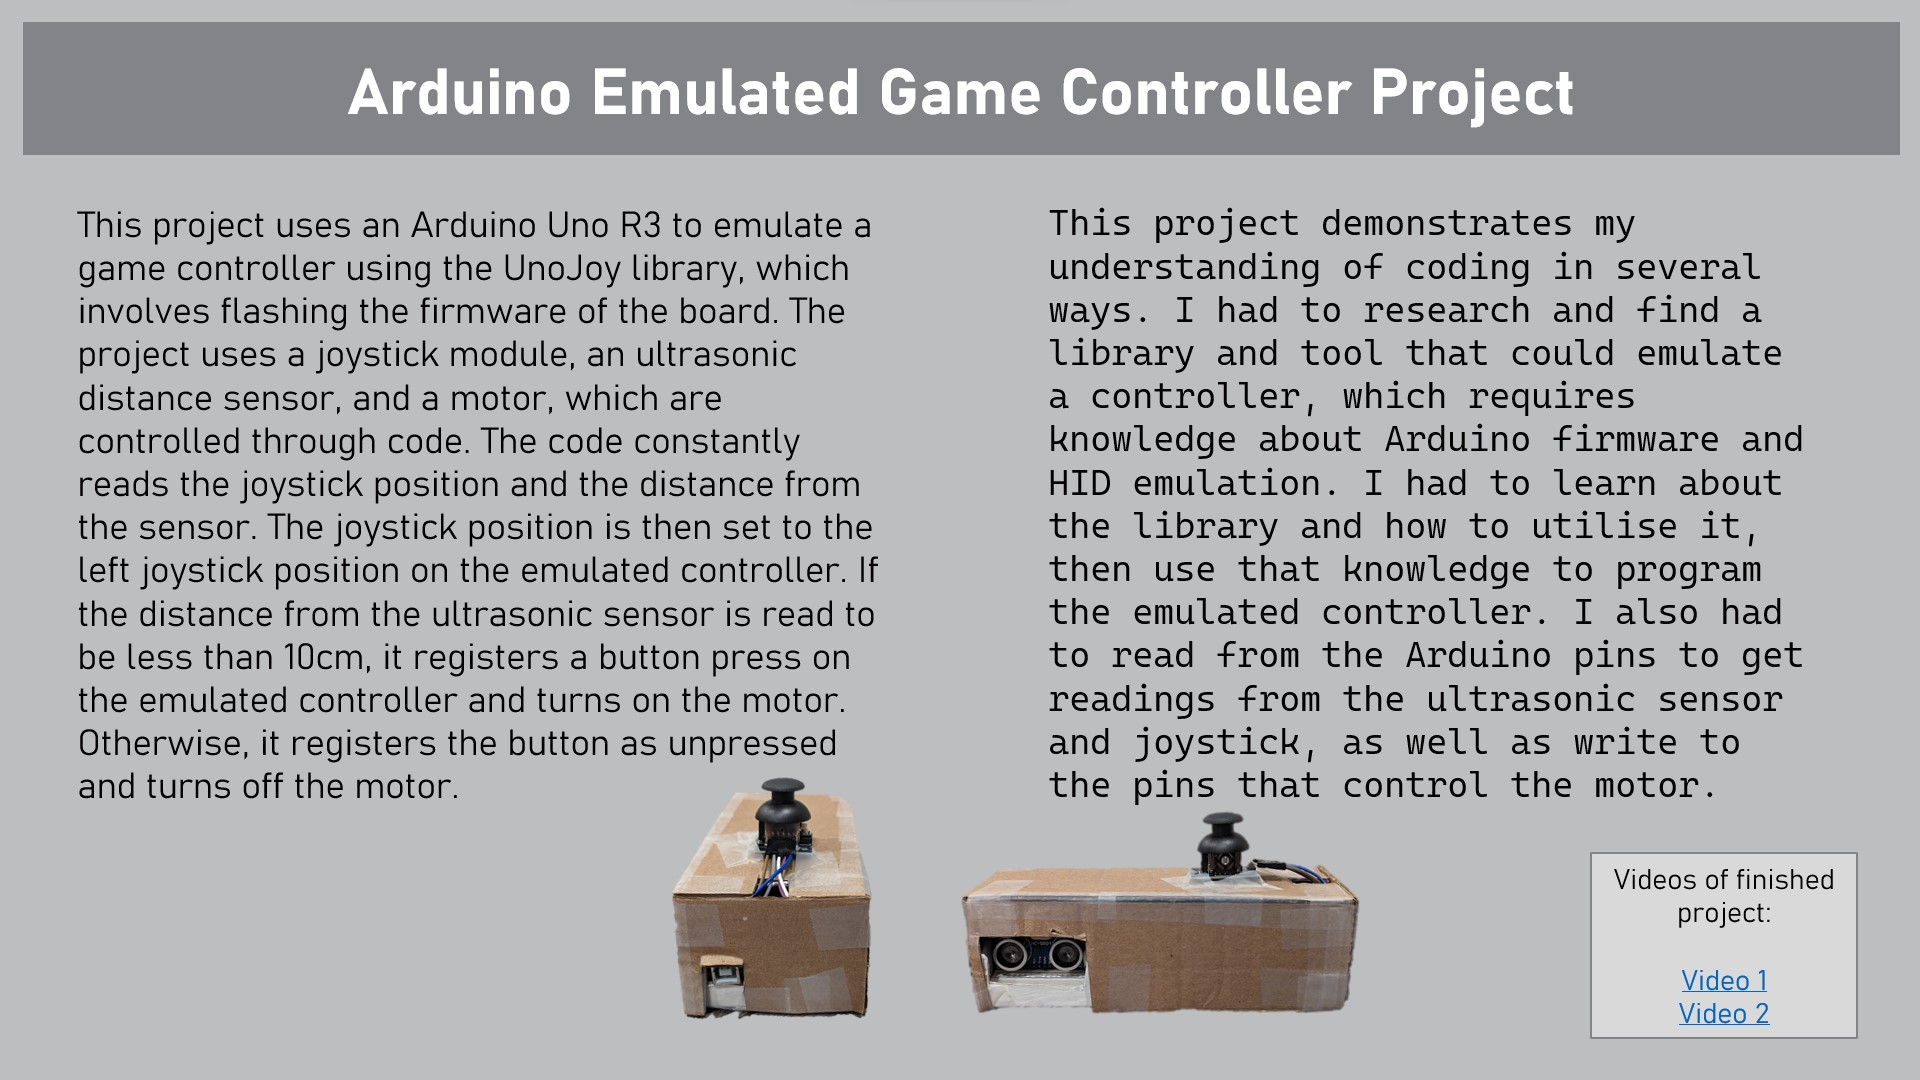
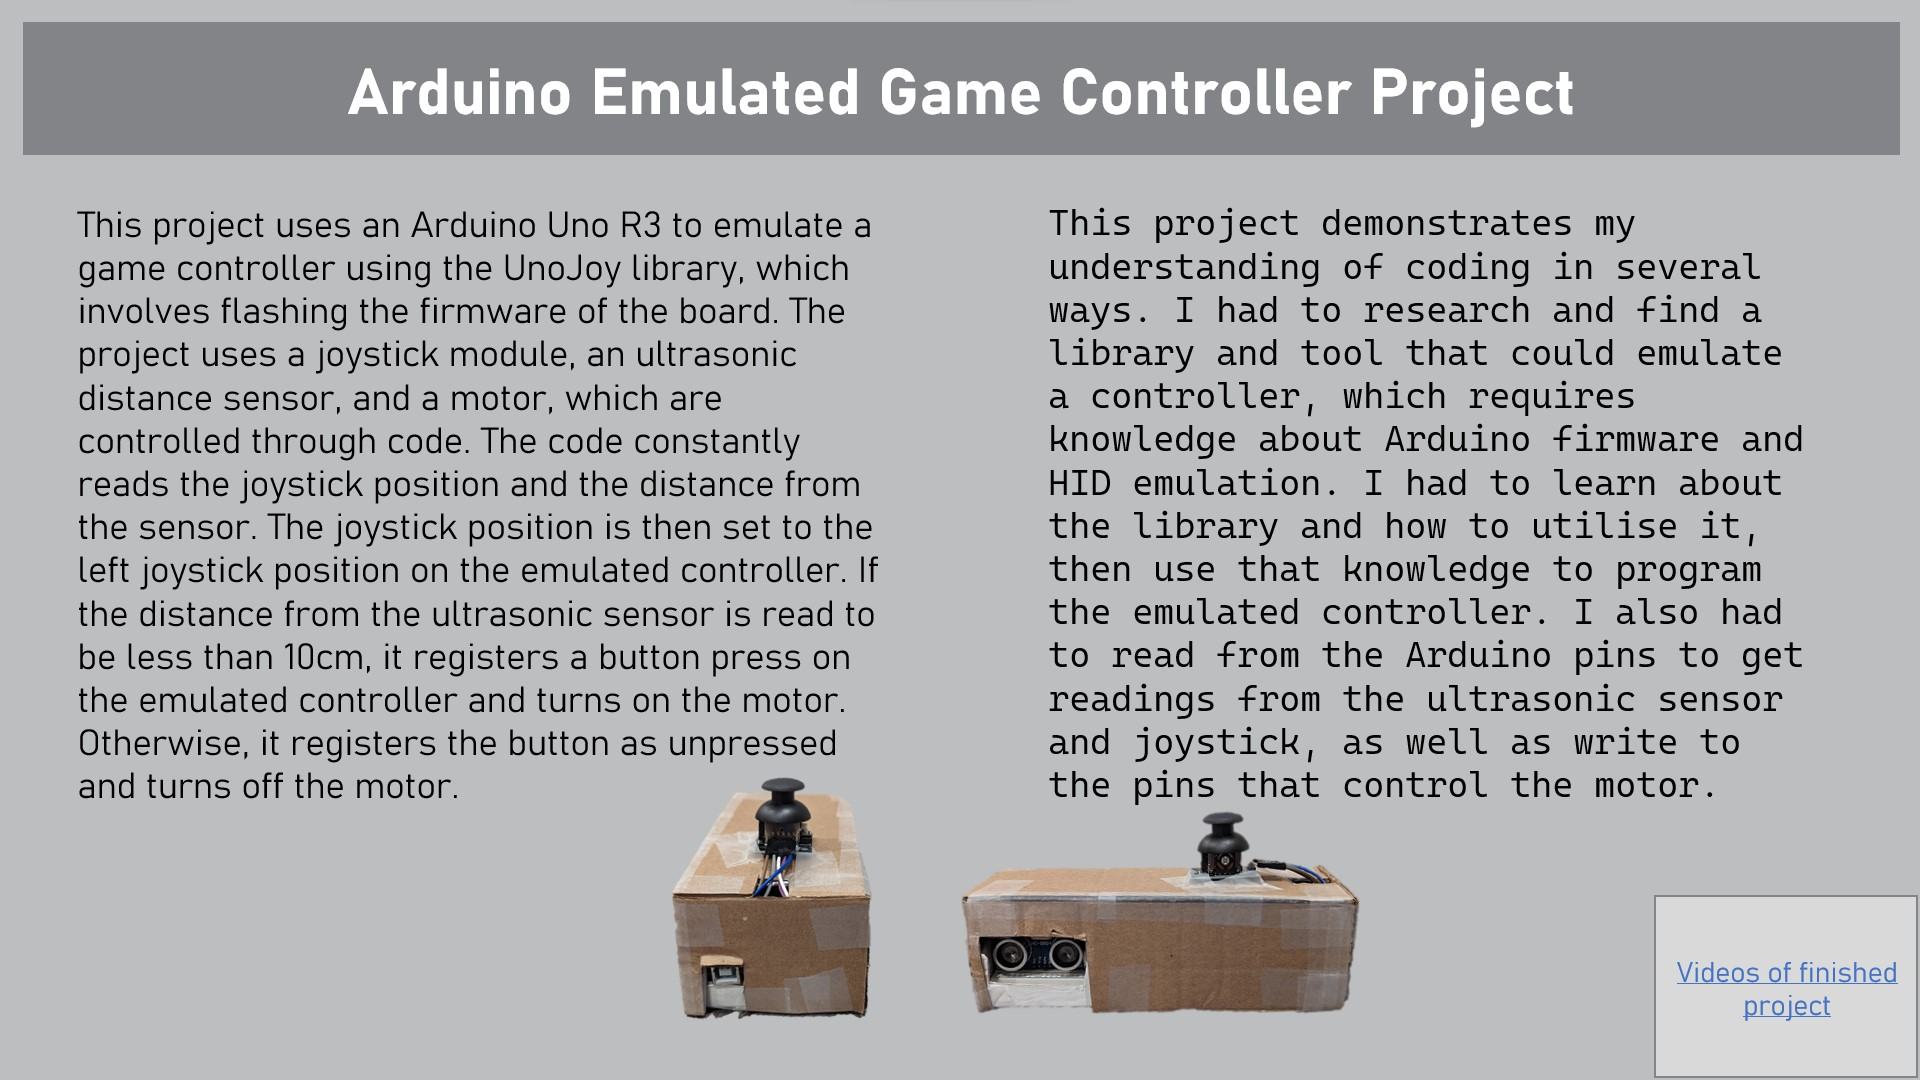
fixed the link not being clickable

Changed region(s): [[0.8125, 0.7639, 1.0, 1.0]]

diff --git a/script.js b/script.js
@@ -1,27 +1,31 @@
-document.addEventListener("DOMContentLoaded", function() {
-    const tabs = document.querySelectorAll(".tab");
-    const navLinks = document.querySelectorAll("nav a");
-  
-    function showTab(id) {
-      tabs.forEach(tab => {
-        if (tab.id === id) {
-          tab.style.display = "block";
-        } else {
-          tab.style.display = "none";
-        }
-      });
-    }
-  
-    function handleNavLinkClick(event) {
-      event.preventDefault();
-      const id = event.target.getAttribute("href").substr(1);
-      showTab(id);
-    }
-  
-    navLinks.forEach(link => {
-      link.addEventListener("click", handleNavLinkClick);
+document.addEventListener("DOMContentLoaded", function () {
+  const tabs = document.querySelectorAll(".tab");
+  const navLinks = document.querySelectorAll("nav a");
+
+  function showTab(id) {
+    tabs.forEach(tab => {
+      if (tab.id === id) {
+        tab.style.display = "block";
+      } else {
+        tab.style.display = "none";
+      }
     });
-  
-    showTab("tab1");
+  }
+
+  function handleNavLinkClick(event) {
+    event.preventDefault();
+    const id = event.target.getAttribute("href").substr(1);
+    showTab(id);
+  }
+
+  navLinks.forEach(link => {
+    link.addEventListener("click", handleNavLinkClick);
   });
-  
+
+  showTab("tab1");
+});
+
+const rect = document.querySelector(".rect");
+rect.addEventListener("click", function() {
+  window.location.href = "https://drive.google.com/drive/folders/1_yyIMneYBa8vWJuyU8DUaHSBdddfK4Jy?usp=sharing";
+});

diff --git a/styles.css b/styles.css
@@ -1,39 +1,62 @@
 body {
-    font-family: Arial, sans-serif;
-  }
-  
-  nav {
-    background-color: #f8f8f8;
-    border-bottom: 1px solid #ccc;
-  }
-  
-  nav ul {
-    list-style-type: none;
-    margin: 0;
-    padding: 0;
-    display: flex;
-  }
-  
-  nav li {
-    margin: 0 10px;
-  }
-  
-  nav a {
-    display: block;
-    padding: 10px;
-    text-decoration: none;
-    color: #333;
-  }
-  
-  nav a:hover {
-    background-color: #ddd;
-  }
-  
-  .tab {
-    display: none;
-  }
-  
-  .tab img {
-    max-width: 100%;
-  }
-  
+  font-family: Arial, sans-serif;
+}
+
+nav {
+  background-color: #f8f8f8;
+  border-bottom: 1px solid #ccc;
+}
+
+nav ul {
+  list-style-type: none;
+  margin: 0;
+  padding: 0;
+  display: flex;
+}
+
+nav li {
+  margin: 0 10px;
+}
+
+nav a {
+  display: block;
+  padding: 10px;
+  text-decoration: none;
+  color: #333;
+}
+
+nav a:hover {
+  background-color: #ddd;
+}
+
+.tab {
+  display: none;
+}
+
+.tab img {
+  max-width: 100%;
+  pointer-events: none;
+}
+
+.tab-img {
+  position: relative;
+  display: block;
+  max-width: 100%;
+}
+
+.tab-container {
+  position: relative;
+}
+
+.rect {
+  position: absolute;
+  bottom: 0;
+  right: 0;
+  width: 265px;
+  height: 185px;
+  z-index: 1;
+}
+
+.tab-img {
+  pointer-events: none;
+}

diff --git a/index.html b/index.html
@@ -53,26 +53,38 @@
       <img src="image1.jpg" alt="Image 1">
     </div>
     <div id="tab2" class="tab">
-      <img src="image2.jpg" alt="Image 2">
+      <div class="tab-container">
+        <img src="image2.jpg" alt="Image 2" class="tab-img">
+        <a
+          href="https://drive.google.com/drive/folders/1_yyIMneYBa8vWJuyU8DUaHSBdddfK4Jy?usp=sharing"
+          class="rect"></a>
+      </div>
     </div>
+
     <div id="tab3" class="tab">
       <img src="image3.jpg" alt="Image 3">
     </div>
+
     <div id="tab4" class="tab">
       <img src="image4.jpg" alt="Image 4">
     </div>
+
     <div id="tab5" class="tab">
       <img src="image5.jpg" alt="Image 5">
     </div>
+
     <div id="tab6" class="tab">
       <img src="image6.jpg" alt="Image 6">
     </div>
+
     <div id="tab7" class="tab">
       <img src="image7.jpg" alt="Image 7">
     </div>
+
     <div id="tab8" class="tab">
       <img src="image8.jpg" alt="Image 8">
     </div>
+
 
     <script src="script.js"></script>
   </body>
